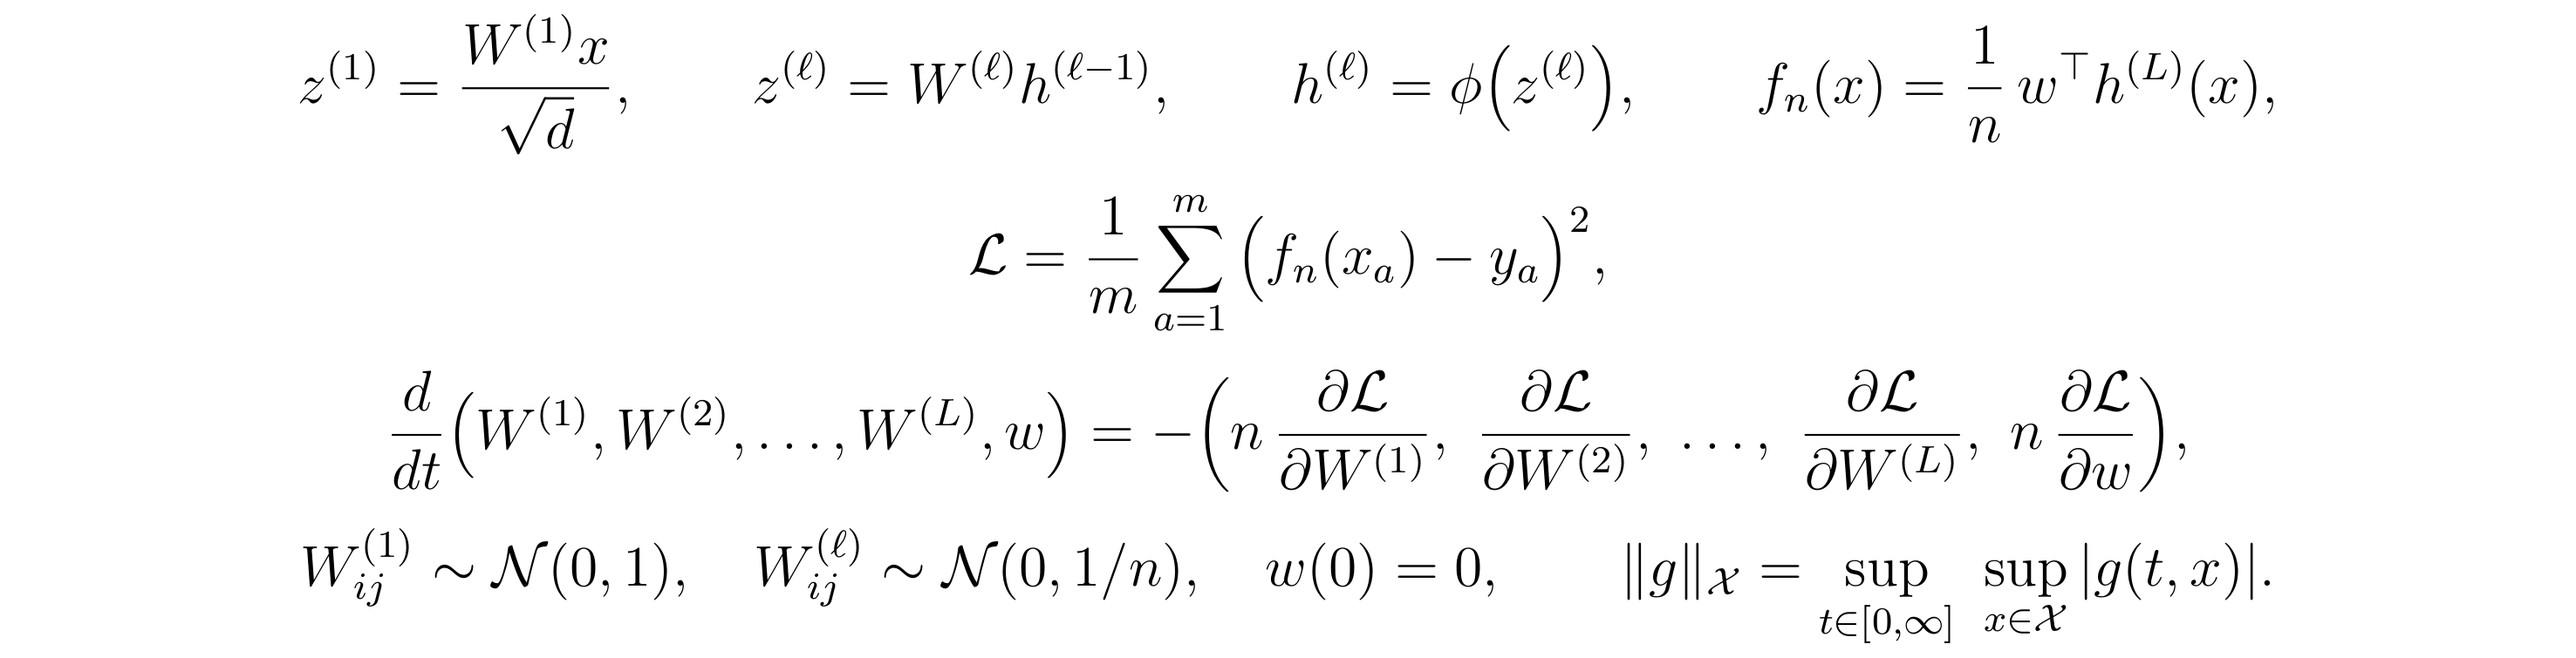
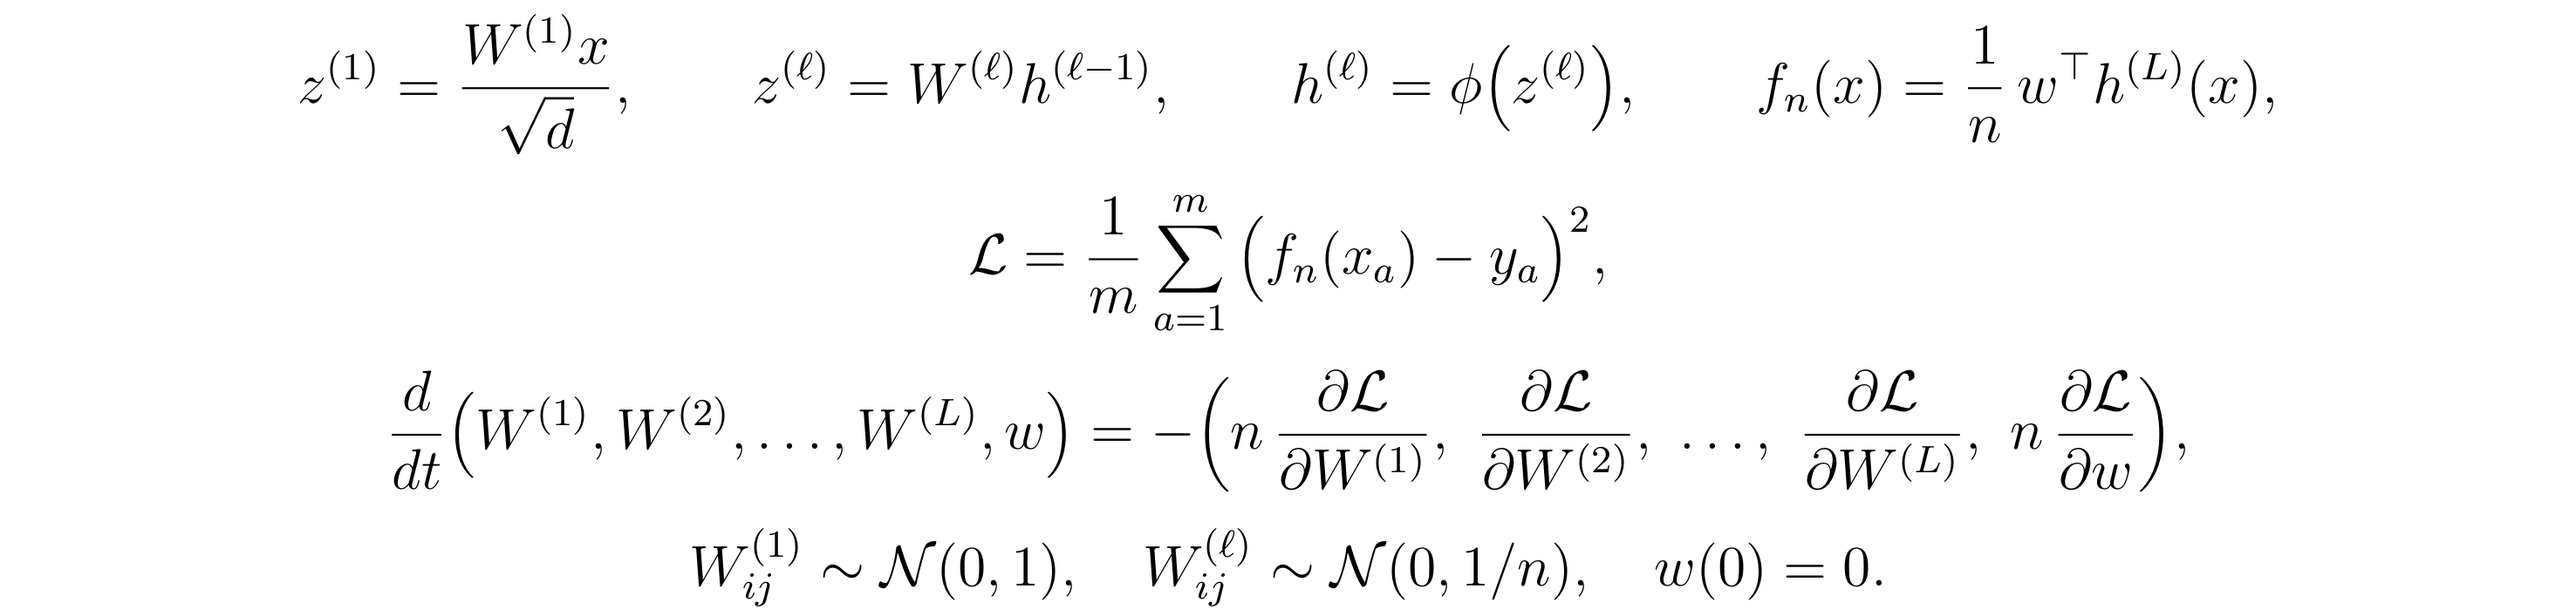
slides: define the trajectory discrepancy on the compression slide
The sup-over-time-and-inputs discrepancy moves from the setup to the
compression slide, stated for any two models f and g with the time and input
ranges labelled; the setup plate ends with the initialisation.

diff --git a/paper/slides/html_deck/index.html b/paper/slides/html_deck/index.html
@@ -58,15 +58,16 @@ body.presenting #bar:has(button:hover),body.presenting #bar:focus-within{opacity
 <section class="slide" id="setup" style="background:#FBFAF7;color:#1E1E1E;font-family:'LM Roman 12', 'Times New Roman', serif;padding:128px 160px 160px;display:flex;flex-direction:column;gap:32px">
 <h2 style="font-family:'LM Roman 17', 'Times New Roman', serif;font-size:60px;font-weight:400;line-height:1.15;color:#1E1E1E">Setup: a canonical deep network</h2>
 <p style="font-size:32px;line-height:1.4;color:#1E1E1E;">Width <i>n</i>, depth <i>L</i>&#8202;≥&#8202;2, <i>m</i> training pairs on the sphere; squared loss; gradient flow; every layer trains.</p>
-<img src="img/setup.png?v=db56009e" alt="Network z1 = W1 x / sqrt d, z_l = W_l h_(l-1), h_l = phi(z_l), f = w^T h_L / n; mean squared loss; the time derivative of (W1, ..., WL, w) is minus (n dL/dW1, dL/dW2, ..., dL/dWL, n dL/dw); Gaussian initialisation with zero readout; trajectory norm sup over all times and inputs." style="width:1476px;height:378px;object-fit:contain;align-self:center">
+<img src="img/setup.png?v=138973b5" alt="Network z1 = W1 x / sqrt d, z_l = W_l h_(l-1), h_l = phi(z_l), f = w^T h_L / n; mean squared loss; the time derivative of (W1, ..., WL, w) is minus (n dL/dW1, dL/dW2, ..., dL/dWL, n dL/dw); Gaussian initialisation with zero readout." style="width:1476px;height:353px;object-fit:contain;align-self:center">
 <div style="display:flex;gap:48px"><div style="display:flex;flex-direction:column;gap:14px;flex:1;padding:6px 0px 6px 36px;border-left:3px solid #1E1E1E"><p style="font-family:'LM Roman Caps', 'Times New Roman', serif;font-size:28px;letter-spacing:2px;color:#6E6A64;">Held fixed</p><p style="font-size:28px;line-height:1.4;color:#1E1E1E;">data, labels, <i>m</i>, <i>d</i>, <i>L</i> as <i>n</i>&#8202;→&#8202;∞: a small-sample regime</p></div><div style="display:flex;flex-direction:column;gap:14px;flex:1;padding:6px 0px 6px 36px;border-left:3px solid #1E1E1E"><p style="font-family:'LM Roman Caps', 'Times New Roman', serif;font-size:28px;letter-spacing:2px;color:#6E6A64;">Activations</p><p style="font-size:28px;line-height:1.4;color:#1E1E1E;">anything analytic on a strip: tanh, sigmoid, erf, softplus, GELU, SiLU</p></div><div style="display:flex;flex-direction:column;gap:14px;flex:1;padding:6px 0px 6px 36px;border-left:3px solid #1E1E1E"><p style="font-family:'LM Roman Caps', 'Times New Roman', serif;font-size:28px;letter-spacing:2px;color:#6E6A64;">μP</p><p style="font-size:28px;line-height:1.4;color:#1E1E1E;">maximal-update feature learning: rates <i>n</i>, 1, …, 1, <i>n</i>; readout 1/<i>n</i>, zero at initialisation</p></div></div>
 <p style="position:absolute;right:160px;bottom:64px;width:200px;text-align:right;font-size:24px;color:#6E6A64">4</p>
 </section>
-<section class="slide" id="compress" style="background:#FBFAF7;color:#1E1E1E;font-family:'LM Roman 12', 'Times New Roman', serif;padding:128px 160px 160px;display:flex;flex-direction:column;gap:48px">
+<section class="slide" id="compress" style="background:#FBFAF7;color:#1E1E1E;font-family:'LM Roman 12', 'Times New Roman', serif;padding:128px 160px 160px;display:flex;flex-direction:column;gap:36px">
 <h2 style="font-family:'LM Roman 17', 'Times New Roman', serif;font-size:60px;font-weight:400;line-height:1.15;color:#1E1E1E">What does it mean to compress?</h2>
 <div style="display:flex;align-items:center;gap:48px"><p style="font-family:'LM Roman Caps', 'Times New Roman', serif;font-size:28px;letter-spacing:2px;color:#6E6A64;width:300px;flex:none;">Dynamics</p><p style="font-size:32px;line-height:1.4;color:#1E1E1E;">agreeing on every input ≠ agreeing once training resumes</p></div>
+<img src="img/norm.png?v=87dbd929" alt="Discrepancy between any two models f and g: the supremum over all training time, up to the fitted limit, and over all inputs, of the absolute difference of their outputs." style="width:1377px;height:141px;object-fit:contain;align-self:start">
 <img src="img/define.png?v=9f97d7b0" alt="f_n is the dense network, f-tilde_n the same network from an independent seed, f_model the compressed model with an autonomous fixed-size state built from initialisation information only; compression error much smaller than seed variability, about 1 over root n, with a state much smaller than n squared per dense layer." style="width:1378px;height:292px;object-fit:contain;align-self:start">
-<div style="display:flex;align-items:start;gap:48px"><p style="font-family:'LM Roman Caps', 'Times New Roman', serif;font-size:28px;letter-spacing:2px;color:#6E6A64;width:300px;flex:none;">Two kinds</p><ul style="font-size:32px;line-height:1.35;color:#1E1E1E;display:flex;flex-direction:column;gap:8px"><li>Oblivious: ignores the data, like random projections</li><li>Data-aware: uses the data, like PCA</li></ul></div>
+<div style="display:flex;align-items:start;gap:48px"><p style="font-family:'LM Roman Caps', 'Times New Roman', serif;font-size:28px;letter-spacing:2px;color:#6E6A64;width:300px;flex:none;">Two kinds</p><ul style="font-size:32px;line-height:1.35;color:#1E1E1E;display:flex;flex-direction:column;gap:8px"><li>Oblivious: ignores the data, like random projections</li><li>Data-aware: uses the data, like PCA</li><li>We use both</li></ul></div>
 <p style="position:absolute;right:160px;bottom:64px;width:200px;text-align:right;font-size:24px;color:#6E6A64">5</p>
 </section>
 <section class="slide" id="time" style="background:#FBFAF7;color:#1E1E1E;font-family:'LM Roman 12', 'Times New Roman', serif;padding:128px 160px 160px;display:flex;flex-direction:column;gap:24px">

diff --git a/paper/slides/html_deck/src/norm.tex b/paper/slides/html_deck/src/norm.tex
@@ -1,0 +1,15 @@
+\documentclass[12pt,border=2pt]{standalone}
+\input{preamble}
+\begin{document}
+\begin{minipage}{6.9in}
+\[
+ \|f-g\|_{\mathcal X}
+ \;=\;
+ \sup_{\substack{t\,\in\,[0,\infty]\\[2pt] \text{\footnotesize all training time,}\\ \text{\footnotesize to the fitted limit}}}
+ \ \ 
+ \sup_{\substack{x\,\in\,\mathcal X\\[2pt] \text{\footnotesize all inputs}}}
+ \ \big|f(t,x)-g(t,x)\big|
+ \qquad\text{for any two models } f,\ g
+\]
+\end{minipage}
+\end{document}

diff --git a/paper/slides/html_deck/src/setup.tex b/paper/slides/html_deck/src/setup.tex
@@ -19,8 +19,7 @@
 \[
  W^{(1)}_{ij}\sim\mathcal N(0,1),\quad
  W^{(\ell)}_{ij}\sim\mathcal N(0,1/n),\quad
- w(0)=0,\qquad
- \|g\|_{\mathcal X}=\sup_{t\in[0,\infty]}\ \sup_{x\in\mathcal X}|g(t,x)|.
+ w(0)=0.
 \]
 \end{minipage}
 \end{document}
